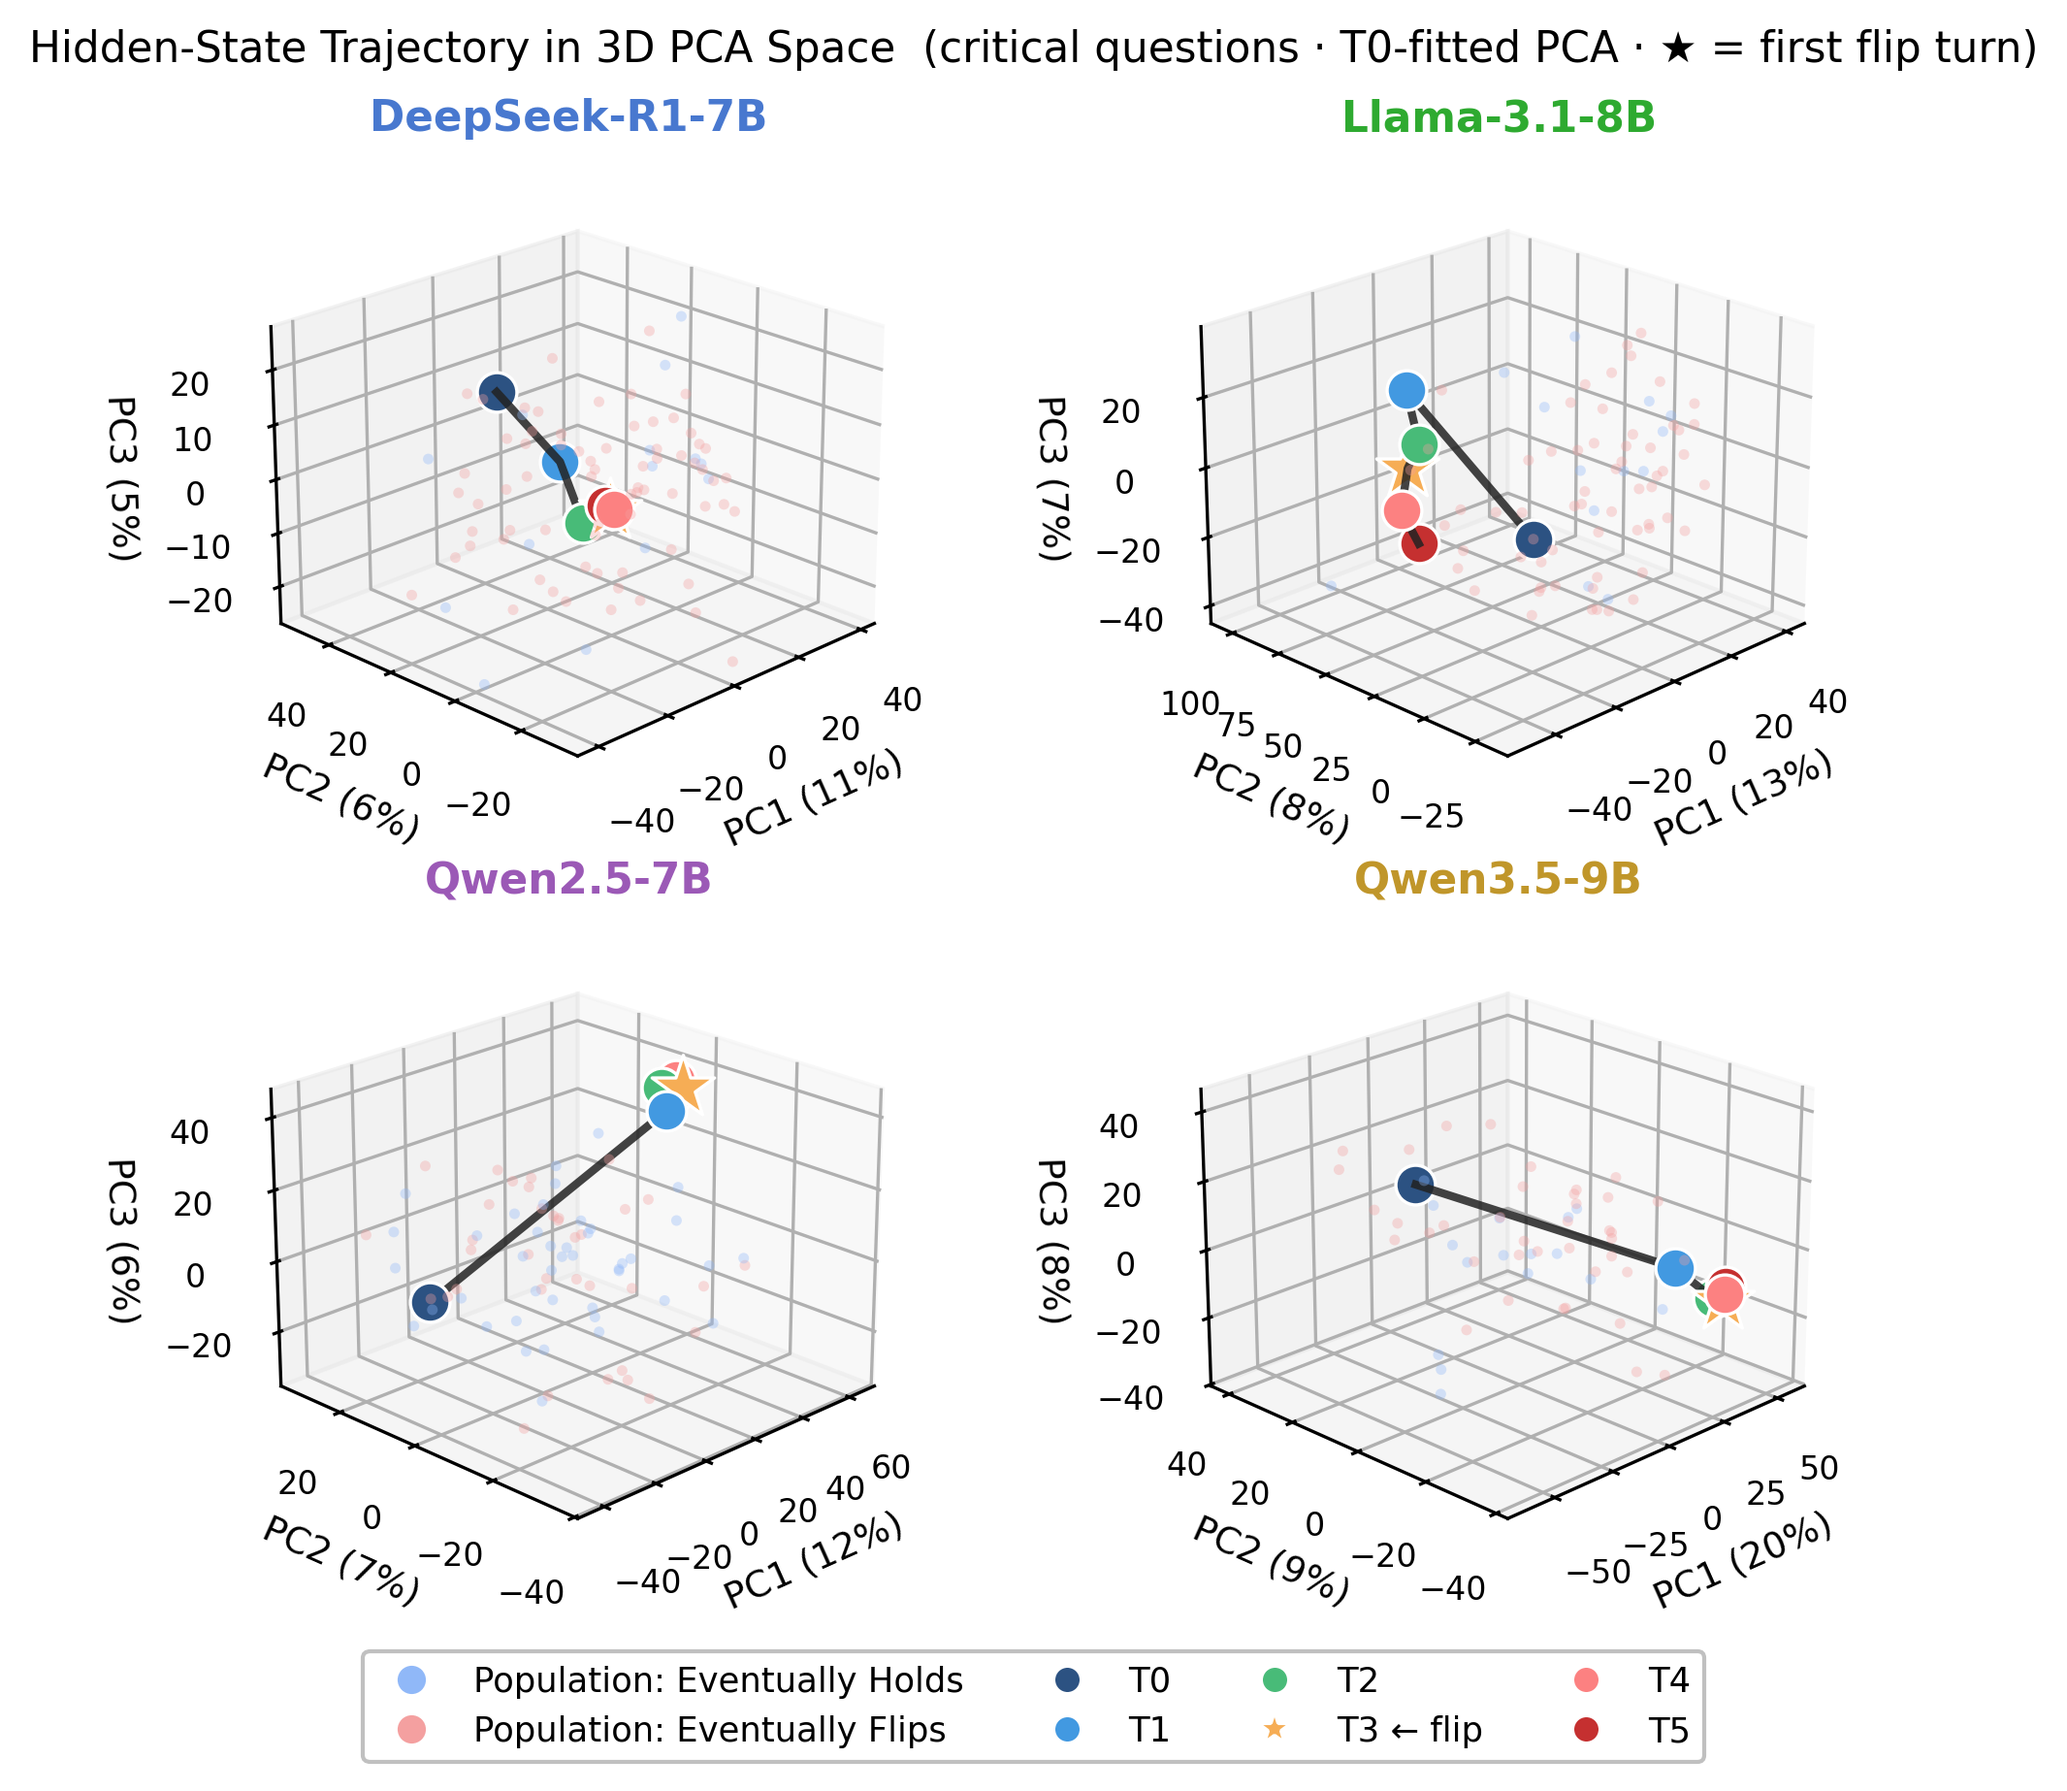
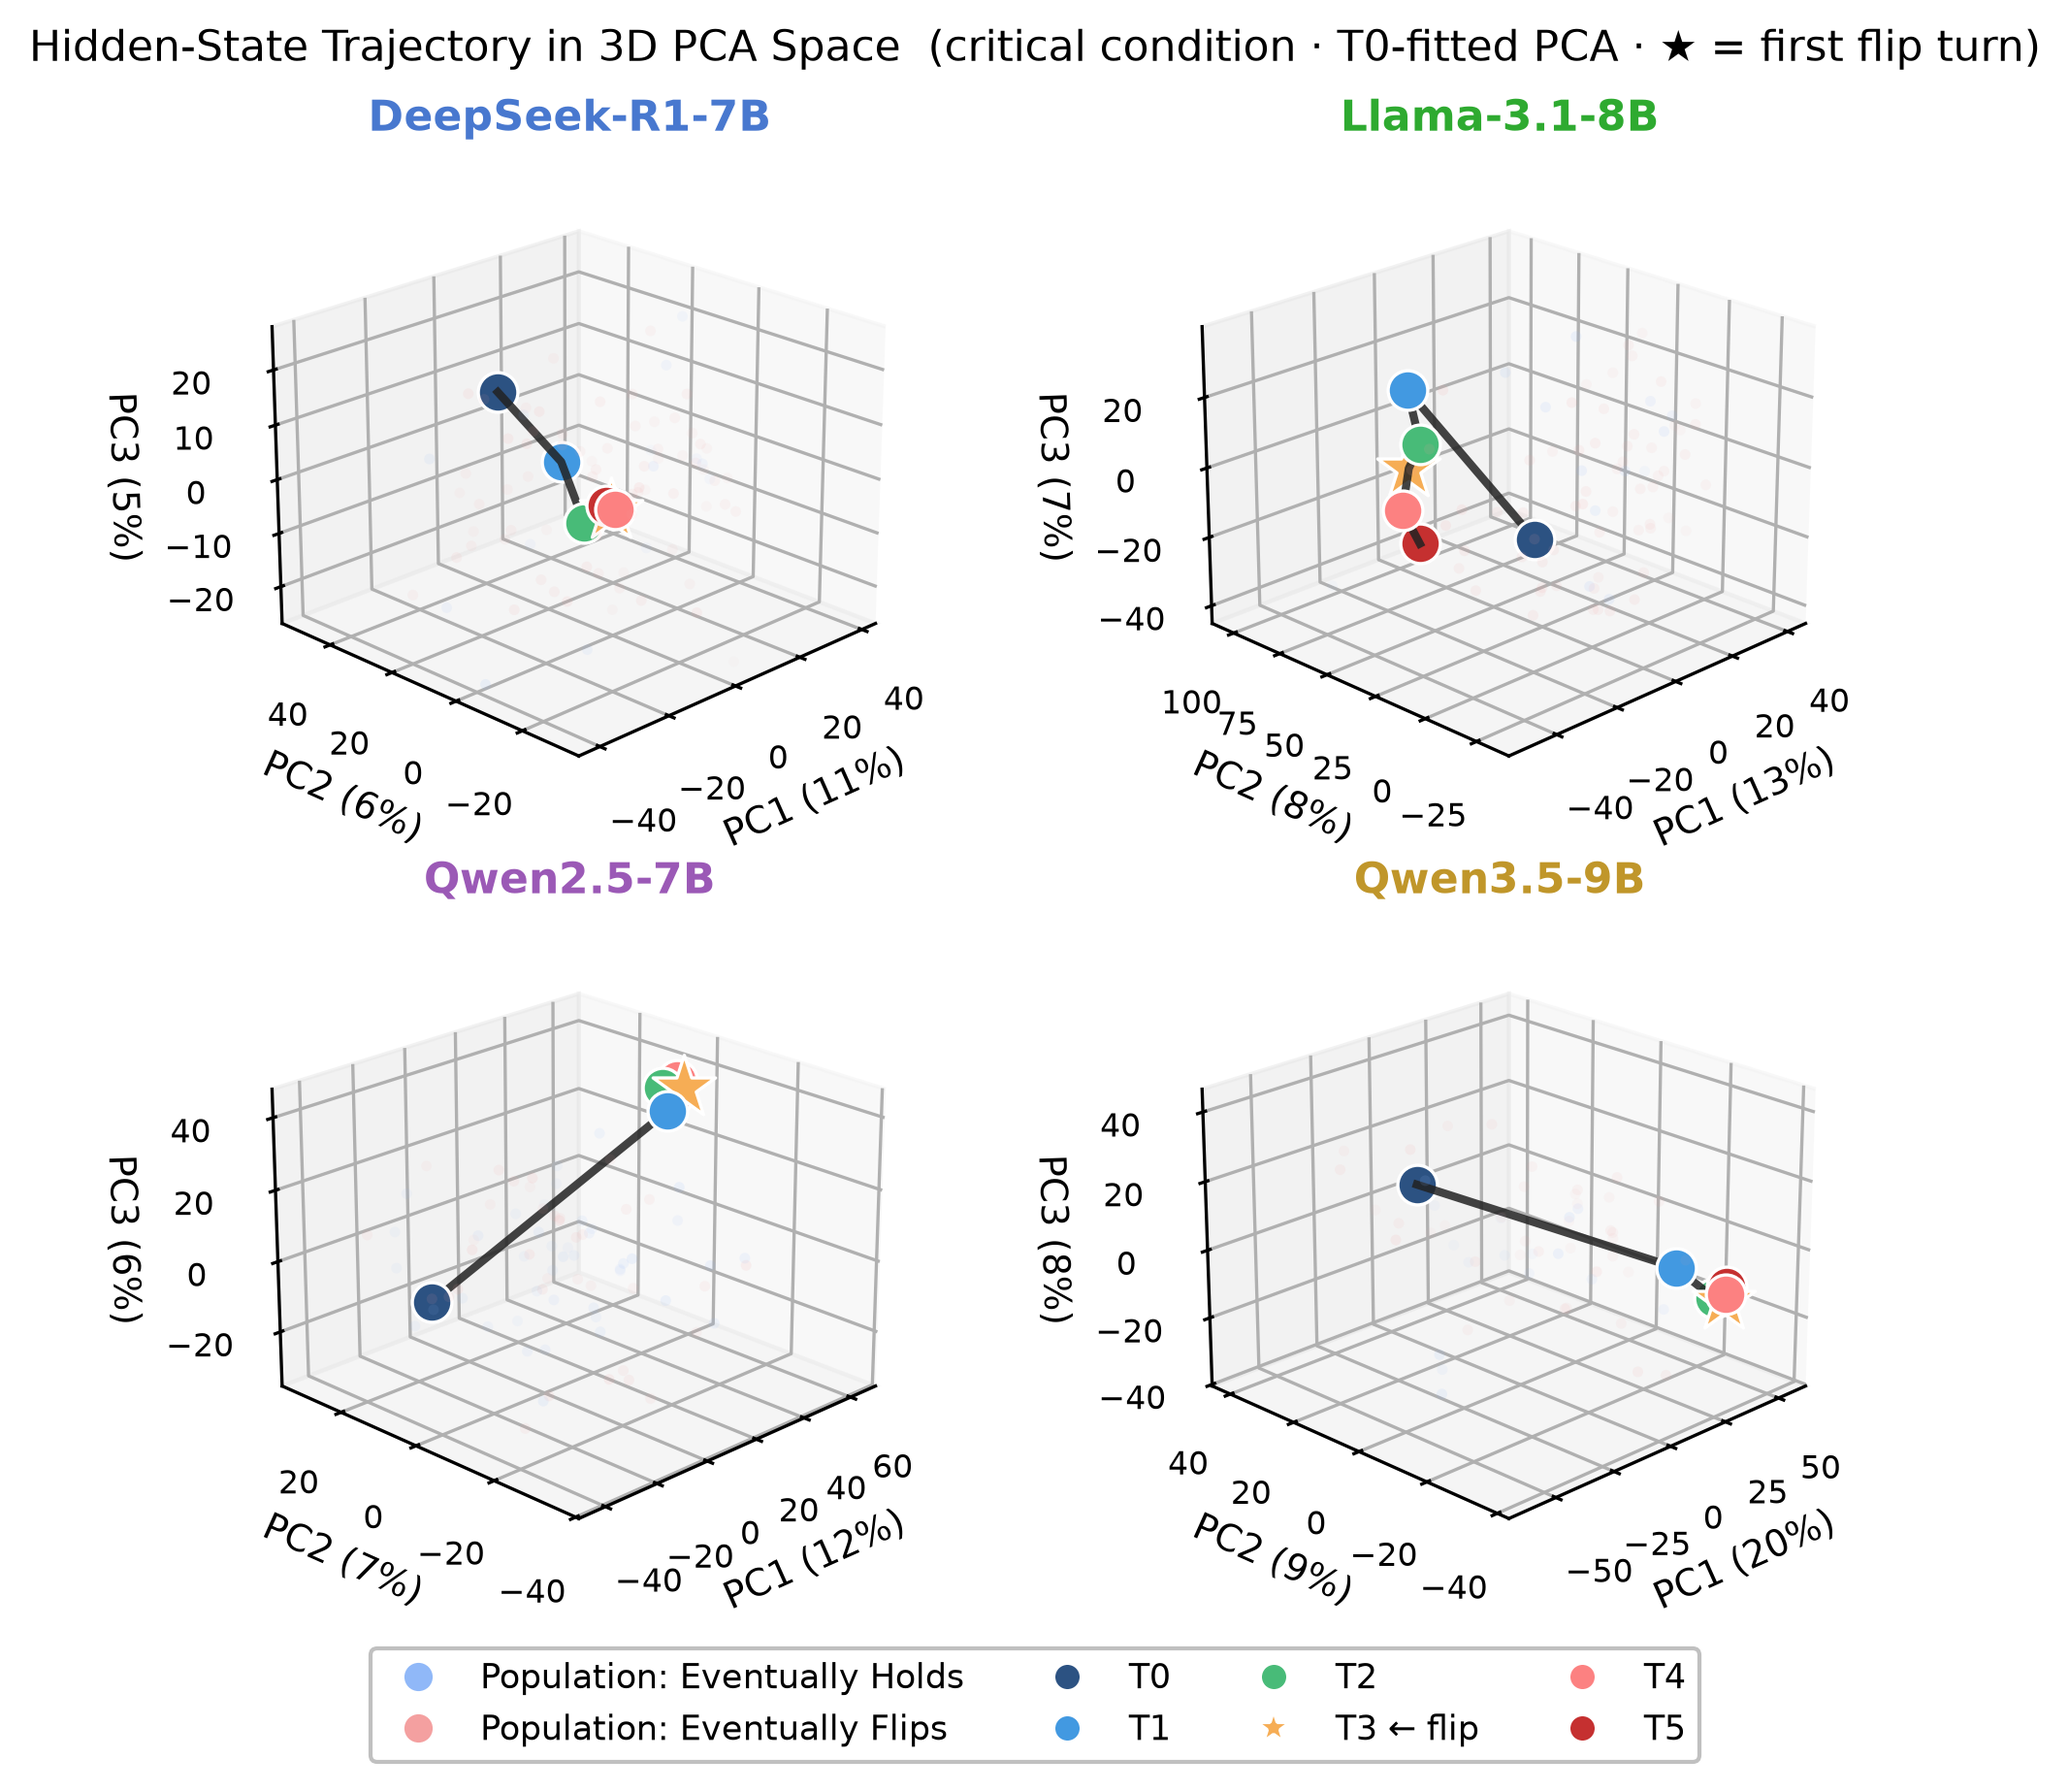
Seed the geometry PCA; regenerate two stale artifacts from snapshot 955b6da
preflip_geometry.py and geometry_cis.py called PCA without a seed (sklearn's
auto solver is a randomized SVD at these sizes), so their LDA and
silhouette values were one random draw per run. Both now use
random_state=42; preflip_geometry.py was run twice and its outputs are
byte-identical.

Regenerated from the downloaded data snapshot (HF dataset revision
955b6da423654f36ec526232c38be6e950d6a84a):
- preflip_geometry.txt/.csv: the wording no longer claims curved geometry.
  Fisher ratios, chance levels and n reproduce exactly in all 12 cells;
  LDA moves by up to 0.02 and silhouette by up to 0.0001 versus the
  committed unseeded draw.
- pca_3d.png / pca_projections.png: titles say "critical condition".

geometry_cis.py (the paper's Table 4) is seeded but not regenerated here;
it is re-derived with the meta-review work. FAILURE_TAXONOMY gains one row.

diff --git a/analysis/preflip_geometry.py b/analysis/preflip_geometry.py
@@ -133,7 +133,7 @@ def build_preflip_dataset(hs, flip_data: dict, layer: int):
 # ─────────────────────────────────────────────────────────────────────────────
 
 def pca_variance(X: np.ndarray, n_components: int = 10) -> np.ndarray:
-    pca = PCA(n_components=min(n_components, X.shape[1], X.shape[0] - 1))
+    pca = PCA(n_components=min(n_components, X.shape[1], X.shape[0] - 1), random_state=42)
     pca.fit(X)
     return pca.explained_variance_ratio_
 
@@ -141,7 +141,7 @@ def pca_variance(X: np.ndarray, n_components: int = 10) -> np.ndarray:
 def silhouette(X: np.ndarray, y: np.ndarray, n_pca: int = 50) -> float:
     if len(np.unique(y)) < 2 or len(X) < 10:
         return np.nan
-    pca = PCA(n_components=min(n_pca, X.shape[1], X.shape[0] - 1))
+    pca = PCA(n_components=min(n_pca, X.shape[1], X.shape[0] - 1), random_state=42)
     Xr = pca.fit_transform(X)
     try:
         return float(silhouette_score(Xr, y, sample_size=min(1000, len(y)), random_state=42))
@@ -157,7 +157,7 @@ def lda_accuracy(X: np.ndarray, y: np.ndarray, n_splits: int = 5) -> float:
     X = scaler.fit_transform(X)
     # Reduce to 50 dims first for numerical stability
     n_pca = min(50, X.shape[1], X.shape[0] - 1)
-    pca = PCA(n_components=n_pca)
+    pca = PCA(n_components=n_pca, random_state=42)
     X = pca.fit_transform(X)
 
     skf = StratifiedKFold(n_splits=min(n_splits, min(np.bincount(y.astype(int)))),
@@ -193,7 +193,7 @@ def tsne_coords(X: np.ndarray, y: np.ndarray, n_pca: int = 50):
     """Run PCA → t-SNE and return 2D coordinates."""
     try:
         from sklearn.manifold import TSNE
-        pca = PCA(n_components=min(n_pca, X.shape[1], X.shape[0] - 1))
+        pca = PCA(n_components=min(n_pca, X.shape[1], X.shape[0] - 1), random_state=42)
         Xr = pca.fit_transform(StandardScaler().fit_transform(X))
         tsne = TSNE(n_components=2, perplexity=min(30, len(X) // 4),
                     random_state=42, n_iter=1000)

diff --git a/analysis/geometry_cis.py b/analysis/geometry_cis.py
@@ -83,7 +83,7 @@ def lda_accuracy_pooled(X, y, n_splits=5):
     scaler = StandardScaler()
     X = scaler.fit_transform(X)
     n_pca = min(50, X.shape[1], X.shape[0] - 1)
-    X = PCA(n_components=n_pca).fit_transform(X)
+    X = PCA(n_components=n_pca, random_state=42).fit_transform(X)
     skf = StratifiedKFold(n_splits=min(n_splits, min(np.bincount(y.astype(int)))),
                           shuffle=True, random_state=42)
     preds, truths = [], []

diff --git a/docs/FAILURE_TAXONOMY.md b/docs/FAILURE_TAXONOMY.md
@@ -59,3 +59,4 @@ once is paid for once; a failure that stays prose gets repeated.
 | 2026-09-16 | A | The pre-flip binary pools two different constructs along the axis that already predicts it: early-turn positives are dominated by hedge/self-doubt judgements and late-turn positives by genuine concessions (DeepSeek hedge-share 55.2%→30.9% T1→T5 while concession rises 31.7%→38.1%; Llama 19.7%→4.0% hedge vs 19.7%→66.3% concession) | a single label treated as one phenomenon when its content shifts systematically with turn; combined with the at-flip pairing this makes §6.3 concurrent heterogeneous-event detection, not pre-capitulation detection | confound-interrogator follow-up (rationale-family classification by turn; its own instrument-artifact hypothesis was refuted in 3 of 4 models first) | A pooled binary ships with its construct composition reported along every pooling axis; turn stratification is a precondition for the label meaning one thing, not merely a robustness check |
 | 2026-10-21 | A/E | The hidden-state extraction point was documented from prose ("final generated token": ONBOARDING from 2026-07-06, then CLAUDE.md and the paper) while `models.py` has always taken the last token of the templated input prompt, before the response. The 2026-09-16 rulings (rows 1, 2 and 16 above; ERRATA E1, E2, E8) and CLAUDE.md's pairing law built "at-flip (post-behavioural)" on that description | a "fix" (`hs[q][t-1]`) that would silently change the prediction horizon of every §6.3 number, a post-behavioural verdict that the extraction code contradicts, and a paper misdescribing its instrument to reviewers (paET's final-token objection) | code-verifier, by recomputing the committed pilot tensors under both hypotheses (ERRATA E10) | A description of what an instrument measures cites the extraction code by path and is confirmed by recomputing stored outputs; every timing or leakage verdict states the extraction point it assumes and how that was verified |
 | 2026-10-21 | E | "The layers that move the most are not the layers that predict the best" was asserted from the pooled drift-vs-AUC scatter with no statistic; per model, the max-drift layer is within two layers of the peak-AUC layer in 3 of 4 | a headline contribution the meta-review asked to move into the main text, contradicted by its own figure's data | coordinator recompute, adjudicated by the falsifier (ERRATA E11) | A structural claim read off a figure ships with the per-unit statistic that tests it, against a null that preserves the data's dependence structure (e.g. layer autocorrelation) |
+| 2026-10-21 | A/F | `analysis/preflip_geometry.py` and `analysis/geometry_cis.py` called `PCA` without a seed; at these matrix sizes sklearn's `auto` solver is a randomized SVD, so every run drew new LDA/silhouette values (up to 0.02 apart on the same data; Fisher ratios, which skip PCA, reproduced exactly). Llama-critical's LDA sat on either side of its 0.736 chance level across draws (0.7405 committed, 0.7342 rerun, 0.7384 seeded) | a "LDA at or below the majority baseline" claim — and the paper's Table 4 LDA intervals, from `geometry_cis.py` — whose truth in a boundary cell depends on an unrecorded random draw | coordinator, regenerating `preflip_geometry.txt` against data snapshot 955b6da and diffing the numbers | Every stochastic step in an analysis carries a fixed seed, and a committed artifact must regenerate byte-identically from its producer; a claim about which side of a threshold a value falls on ships with a multi-seed stability check |
